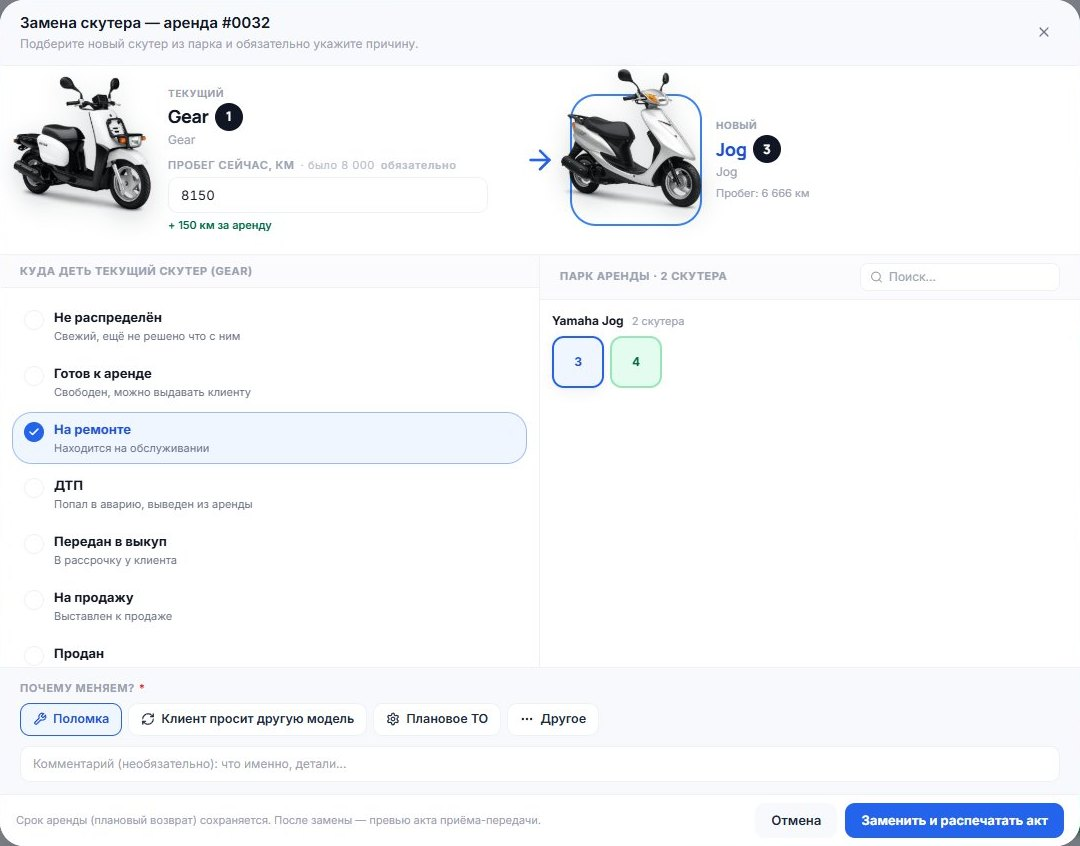
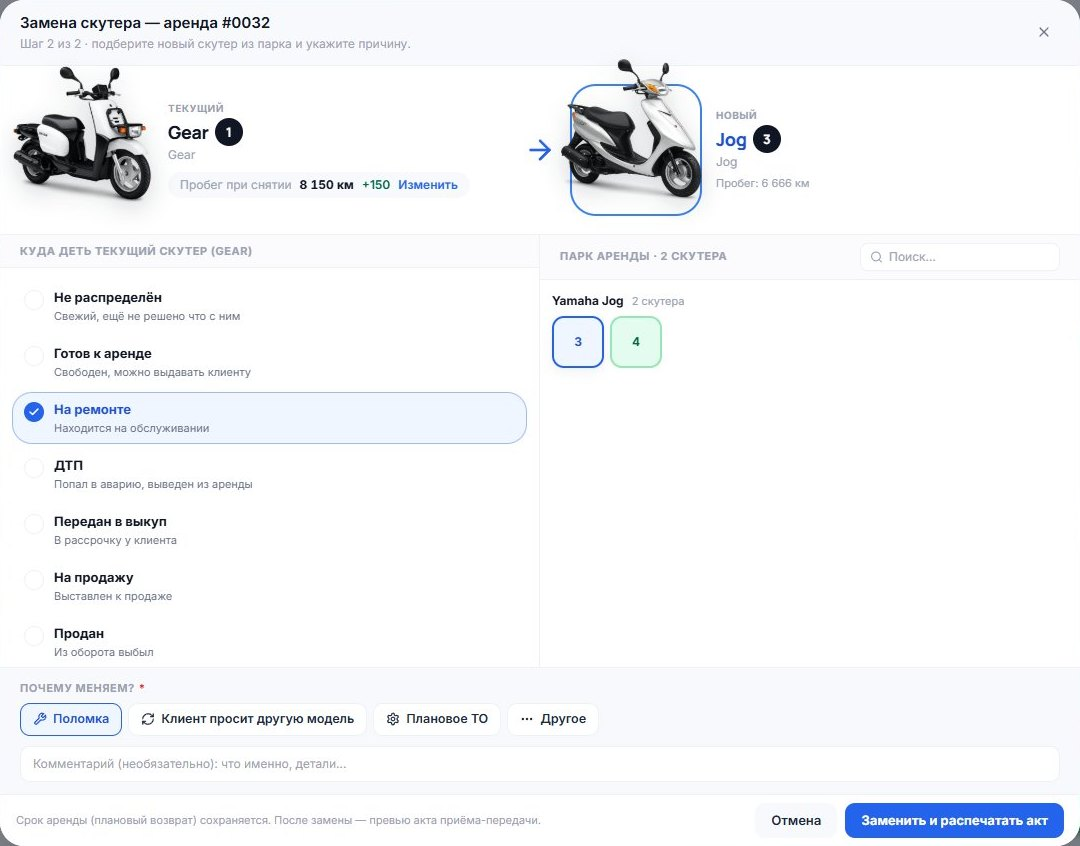
feat(замена): на компьютере пробег снятого — отдельный первый шag
Окно сначала спрашивает «Сколько на одометре?» (крупное поле, курсор в нём,
Enter — дальше), потом выбор нового скутера; там пробег строкой с «Изменить».
Телефон и планшет — без изменений (первый шаг мастера). Кадры «Развития» обновлены.

diff --git a/apps/web/src/pages/rentals/SwapScooterDialog.tsx b/apps/web/src/pages/rentals/SwapScooterDialog.tsx
@@ -26,7 +26,12 @@ import { ScooterPosterAvatar } from "./ScooterPosterAvatar";
 import { ScooterName, scooterModelName } from "@/components/ScooterName";
 import { TABLET_WIZARD_PANEL } from "@/mobile/tablet";
 import { useTabletLayout } from "@/lib/useIsMobile";
-import { MileageCorrectionBox, MileageField, useMileageCheck } from "./mileageCheck";
+import {
+  MileageCorrectionBox,
+  MileageField,
+  MileageHeroInput,
+  useMileageCheck,
+} from "./mileageCheck";
 
 type OldStatus = ScooterBaseStatus;
 
@@ -161,6 +166,12 @@ export function SwapScooterDialog({
    * пробег. Правила — как при приёмке (лишние цифры, меньше записанного).
    */
   const mileage = useMileageCheck(currentScooter?.mileage ?? null);
+  /**
+   * Компьютер: пробег — отдельный первый шаг (окно по центру), потом уже
+   * выбор нового скутера. Заказчик 17.10: поле в карточке терялось, а это
+   * главное действие — его нельзя не заметить.
+   */
+  const [mileageConfirmed, setMileageConfirmed] = useState(false);
   const mileageProblem = (): [string, string] | null =>
     mileage.missing
       ? ["Укажите пробег снятого скутера", "Он возвращается в парк — посмотрите одометр"]
@@ -670,6 +681,93 @@ export function SwapScooterDialog({
     );
   }
 
+  const km = (n: number) => n.toLocaleString("ru-RU");
+  const confirmMileage = () => {
+    const mp = mileageProblem();
+    if (mp) {
+      toast.error(mp[0], mp[1]);
+      return;
+    }
+    setMileageConfirmed(true);
+  };
+
+  // ============ КОМПЬЮТЕР, ШАГ 1: ПРОБЕГ СНЯТОГО СКУТЕРА ============
+  if (!mileageConfirmed) {
+    return (
+      <div
+        className={cn(
+          "fixed inset-0 z-[120] flex items-center justify-center bg-ink/55 p-4 backdrop-blur-sm",
+          closing ? "animate-backdrop-out" : "animate-backdrop-in",
+        )}
+      >
+        <div
+          className={cn(
+            "flex w-full max-w-[540px] flex-col overflow-hidden rounded-2xl bg-surface shadow-card-lg",
+            closing ? "animate-modal-out" : "animate-modal-in",
+          )}
+          onClick={(e) => e.stopPropagation()}
+        >
+          <div className="flex items-center gap-3 border-b border-border bg-surface-soft px-5 py-3">
+            <div className="min-w-0 flex-1">
+              <div className="text-[15px] font-semibold text-ink">
+                Замена скутера — аренда #{String(rental.id).padStart(4, "0")}
+              </div>
+              <div className="text-[12px] text-muted-2">Шаг 1 из 2 · пробег снятого скутера</div>
+            </div>
+            <button
+              type="button"
+              onClick={requestClose}
+              className="flex h-8 w-8 items-center justify-center rounded-full text-muted hover:bg-border hover:text-ink"
+            >
+              <X size={16} />
+            </button>
+          </div>
+
+          <div className="flex flex-col gap-4 bg-white px-6 pb-5 pt-7">
+            <div className="flex items-center gap-4">
+              <ScooterPosterAvatar scooter={currentScooter} size="md" />
+              <div className="min-w-0">
+                <div className="text-[10px] font-bold uppercase tracking-wider text-muted-2">
+                  Снимаем с аренды
+                </div>
+                <div className="mt-0.5 font-display text-[20px] font-extrabold leading-tight text-ink">
+                  <ScooterName
+                    name={rental.scooter}
+                    number={currentScooter?.rentalSlot ?? undefined}
+                    size="lg"
+                  />
+                </div>
+                <div className="mt-1 text-[13px] leading-snug text-muted">
+                  Скутер возвращается в парк — посмотрите одометр и запишите пробег.
+                </div>
+              </div>
+            </div>
+            <MileageHeroInput m={mileage} onEnter={confirmMileage} />
+            <MileageCorrectionBox m={mileage} />
+          </div>
+
+          <div className="flex items-center justify-end gap-2 border-t border-border bg-white px-5 py-3">
+            <button
+              type="button"
+              onClick={requestClose}
+              className="rounded-[10px] bg-surface-soft px-4 py-2.5 text-[13px] font-semibold text-ink-2 hover:bg-surface"
+            >
+              Отмена
+            </button>
+            <button
+              type="button"
+              disabled={mileage.blocked}
+              onClick={confirmMileage}
+              className="inline-flex items-center gap-1.5 rounded-[10px] bg-blue-600 px-5 py-2.5 text-[13.5px] font-bold text-white hover:bg-blue-700 disabled:opacity-50"
+            >
+              Далее: новый скутер <ArrowRight size={15} />
+            </button>
+          </div>
+        </div>
+      </div>
+    );
+  }
+
   return (
     <div
       className={cn(
@@ -692,7 +790,7 @@ export function SwapScooterDialog({
               {String(rental.id).padStart(4, "0")}
             </div>
             <div className="text-[12px] text-muted-2">
-              Подберите новый скутер из парка и обязательно укажите причину.
+              Шаг 2 из 2 · подберите новый скутер из парка и укажите причину.
             </div>
           </div>
           <button
@@ -731,8 +829,27 @@ export function SwapScooterDialog({
                   );
                 })()}
               </div>
-              <MileageField m={mileage} className="mt-2 w-[320px] max-w-full" />
-              <MileageCorrectionBox m={mileage} className="mt-2 max-w-[360px]" />
+              {mileage.forApi != null && (
+                <div className="mt-2 inline-flex items-center gap-2 rounded-full bg-surface-soft px-3 py-1 text-[12px]">
+                  <span className="text-muted-2">Пробег при снятии</span>
+                  <span className="font-bold tabular-nums text-ink">{km(mileage.forApi)} км</span>
+                  {mileage.stored != null && mileage.forApi > mileage.stored && (
+                    <span className="font-semibold text-green-ink">
+                      +{km(mileage.forApi - mileage.stored)}
+                    </span>
+                  )}
+                  {mileage.correctionForApi && (
+                    <span className="font-semibold text-orange-ink">исправление</span>
+                  )}
+                  <button
+                    type="button"
+                    onClick={() => setMileageConfirmed(false)}
+                    className="font-semibold text-blue-600 hover:underline"
+                  >
+                    Изменить
+                  </button>
+                </div>
+              )}
             </div>
           </div>
 

diff --git a/apps/web/src/data/progress.ts b/apps/web/src/data/progress.ts
@@ -6987,7 +6987,7 @@ export const progressItems: ProgressItem[] = [
       "При замене скутера, который мы меняем по какой-либо причине, система должна запрашивать пробег, так как он возвращается в парк.",
     status: "done",
     note:
-      "Как было: при замене пробег снятого скутера нигде не вводился — в карточке оставалась цифра с прошлой приёмки, и следующий клиент получал скутер со старым пробегом. Что изменилось: в окне замены появилось обязательное поле «Пробег сейчас, км» для снятого скутера — рядом видно, сколько было записано. Без него замену не провести. Правила те же, что при приёмке: больше 1 000 000 км не принимается (лишние цифры), меньше записанного — только с отметкой «Это исправление», резкий рост за аренду подсвечивается, обычный — «+150 км за аренду». Пробег записывается в карточку скутера, в хронологию аренды («Пробег снятого скутера: было → стало») и в хронологию самого скутера. Если замену отменить в тот же день, вернётся и прежний пробег. На компьютере поле — в карточке «Текущий» вместо строки «Пробег: …», на телефоне и планшете — на первом шаге «Старый скутер», а на шаге «Проверка» видно, какой пробег запишется.",
+      "Как было: при замене пробег снятого скутера нигде не вводился — в карточке оставалась цифра с прошлой приёмки, и следующий клиент получал скутер со старым пробегом. Что изменилось: пробег снятого скутера — обязательный первый шаг замены. На компьютере окно сначала спрашивает «Сколько на одометре?» (курсор уже в поле, Enter — дальше) и только потом показывает выбор нового скутера; введённый пробег виден там строкой с кнопкой «Изменить». Без пробега замену не провести. Правила те же, что при приёмке: больше 1 000 000 км не принимается (лишние цифры), меньше записанного — только с отметкой «Это исправление», резкий рост за аренду подсвечивается, обычный — «+150 км за аренду». Пробег записывается в карточку скутера, в хронологию аренды («Пробег снятого скутера: было → стало») и в хронологию самого скутера. Если замену отменить в тот же день, вернётся и прежний пробег. На телефоне и планшете пробег вводится на первом шаге мастера «Старый скутер», а на шаге «Проверка» видно, какой пробег запишется.",
     story: [
       {
         tag: "bug",
@@ -6999,15 +6999,16 @@ export const progressItems: ProgressItem[] = [
       },
       {
         tag: "fix",
-        text: "Пробег снятого — обязательное поле с подсказками, как при приёмке.",
+        text: "На компьютере пробег — отдельный первый шаг, его нельзя пропустить; на телефоне и планшете — первый шаг мастера.",
         imgs: [
-          { src: "/progress/v209-swap-desk-empty-now.jpg", label: "СТАЛО: поле подсвечено, пока пробег не введён" },
-          { src: "/progress/v209-swap-desk-now.jpg", label: "СТАЛО: ввели пробег — «+150 км за аренду», можно заменять" },
-          { src: "/progress/v209-swap-tablet-lower-now.jpg", label: "СТАЛО: меньше записанного — только с отметкой «Это исправление»" },
+          { src: "/progress/v209-swap-desk-empty-now.jpg", label: "СТАЛО: шаг 1 — «Сколько на одометре?», курсор уже в поле" },
+          { src: "/progress/v209-swap-desk-ok-now.jpg", label: "СТАЛО: ввели — «+150 км за аренду», «Далее: новый скутер»" },
+          { src: "/progress/v209-swap-desk-lower-now.jpg", label: "СТАЛО: меньше записанного — только с отметкой «Это исправление»" },
+          { src: "/progress/v209-swap-desk-now.jpg", label: "СТАЛО: шаг 2 — пробег виден строкой, «Изменить» вернёт к шагу 1" },
           { src: "/progress/v209-swap-phone-summary-now.jpg", label: "СТАЛО: телефон, «Проверка» — пробег снятого перед заменой" },
         ],
       },
-    ],
+    ]
   },
 ];
 

diff --git a/apps/web/src/pages/rentals/mileageCheck.tsx b/apps/web/src/pages/rentals/mileageCheck.tsx
@@ -101,22 +101,73 @@ export function MileageField({
           m.missing ? "border-red-ink/40 bg-red-soft/30" : "border-border",
         )}
       />
-      {m.tooBig ? (
-        <div className={cn("mt-1 font-semibold text-red-ink", touch ? "text-[12.5px]" : "text-[11px]")}>
-          Больше {km(MAX_MILEAGE)} км — проверьте, нет ли лишних цифр
-        </div>
-      ) : m.stored != null && !m.missing && m.num > m.stored ? (
-        <div
-          className={cn(
-            "mt-1 font-semibold",
-            touch ? "text-[12.5px]" : "text-[11px]",
-            m.bigJump ? "text-orange-ink" : "text-green-ink",
-          )}
-        >
-          + {km(m.num - m.stored)} км за аренду
-          {m.bigJump && " — много для одной аренды, проверьте цифры"}
-        </div>
-      ) : null}
+      <MileageHint m={m} className={cn("mt-1", touch ? "text-[12.5px]" : "text-[11px]")} />
+    </div>
+  );
+}
+
+/** Подсказка к введённому: лишние цифры или «+N км за аренду». */
+function MileageHint({ m, className }: { m: MileageCheck; className?: string }) {
+  if (m.tooBig)
+    return (
+      <div className={cn("font-semibold text-red-ink", className)}>
+        Больше {km(MAX_MILEAGE)} км — проверьте, нет ли лишних цифр
+      </div>
+    );
+  if (m.stored != null && !m.missing && m.num > m.stored)
+    return (
+      <div className={cn("font-semibold", m.bigJump ? "text-orange-ink" : "text-green-ink", className)}>
+        + {km(m.num - m.stored)} км за аренду
+        {m.bigJump && " — много для одной аренды, проверьте цифры"}
+      </div>
+    );
+  return null;
+}
+
+/**
+ * Крупное поле пробега — для отдельного шага «Пробег снятого скутера» на
+ * компьютере (17.10, заказчик: ввод пробега — главное действие, его нельзя
+ * не заметить). Курсор сразу в поле, Enter — дальше.
+ */
+export function MileageHeroInput({ m, onEnter }: { m: MileageCheck; onEnter?: () => void }) {
+  return (
+    <div>
+      <label className="mb-1.5 block text-[14px] font-bold text-ink">Сколько на одометре?</label>
+      <div
+        className={cn(
+          "flex h-16 items-center gap-3 rounded-2xl border-2 bg-white px-5 transition-colors focus-within:border-blue-600",
+          m.tooBig ? "border-red-ink/50" : "border-border",
+        )}
+      >
+        <input
+          autoFocus
+          type="number"
+          inputMode="numeric"
+          min={0}
+          aria-label="Пробег снятого скутера"
+          value={m.value}
+          onChange={(e) => m.setValue(e.target.value)}
+          onKeyDown={(e) => {
+            if (e.key === "Enter") {
+              e.preventDefault();
+              onEnter?.();
+            }
+          }}
+          placeholder={m.stored != null ? String(m.stored) : "0"}
+          className="min-w-0 flex-1 bg-transparent font-display text-[28px] font-extrabold tabular-nums text-ink outline-none [appearance:textfield] placeholder:text-muted-2/40 [&::-webkit-inner-spin-button]:appearance-none [&::-webkit-outer-spin-button]:appearance-none"
+        />
+        <span className="text-[16px] font-semibold text-muted-2">км</span>
+      </div>
+      <div className="mt-1.5 flex flex-wrap items-baseline gap-x-2 text-[12.5px]">
+        {/* При «меньше записанного» это говорит блок исправления ниже. */}
+        {m.stored != null && !m.lower && (
+          <span className="text-muted">В системе записано {km(m.stored)} км</span>
+        )}
+        {m.stored != null && (m.tooBig || (!m.missing && m.num > m.stored)) && (
+          <span className="text-muted-2">·</span>
+        )}
+        <MileageHint m={m} />
+      </div>
     </div>
   );
 }
